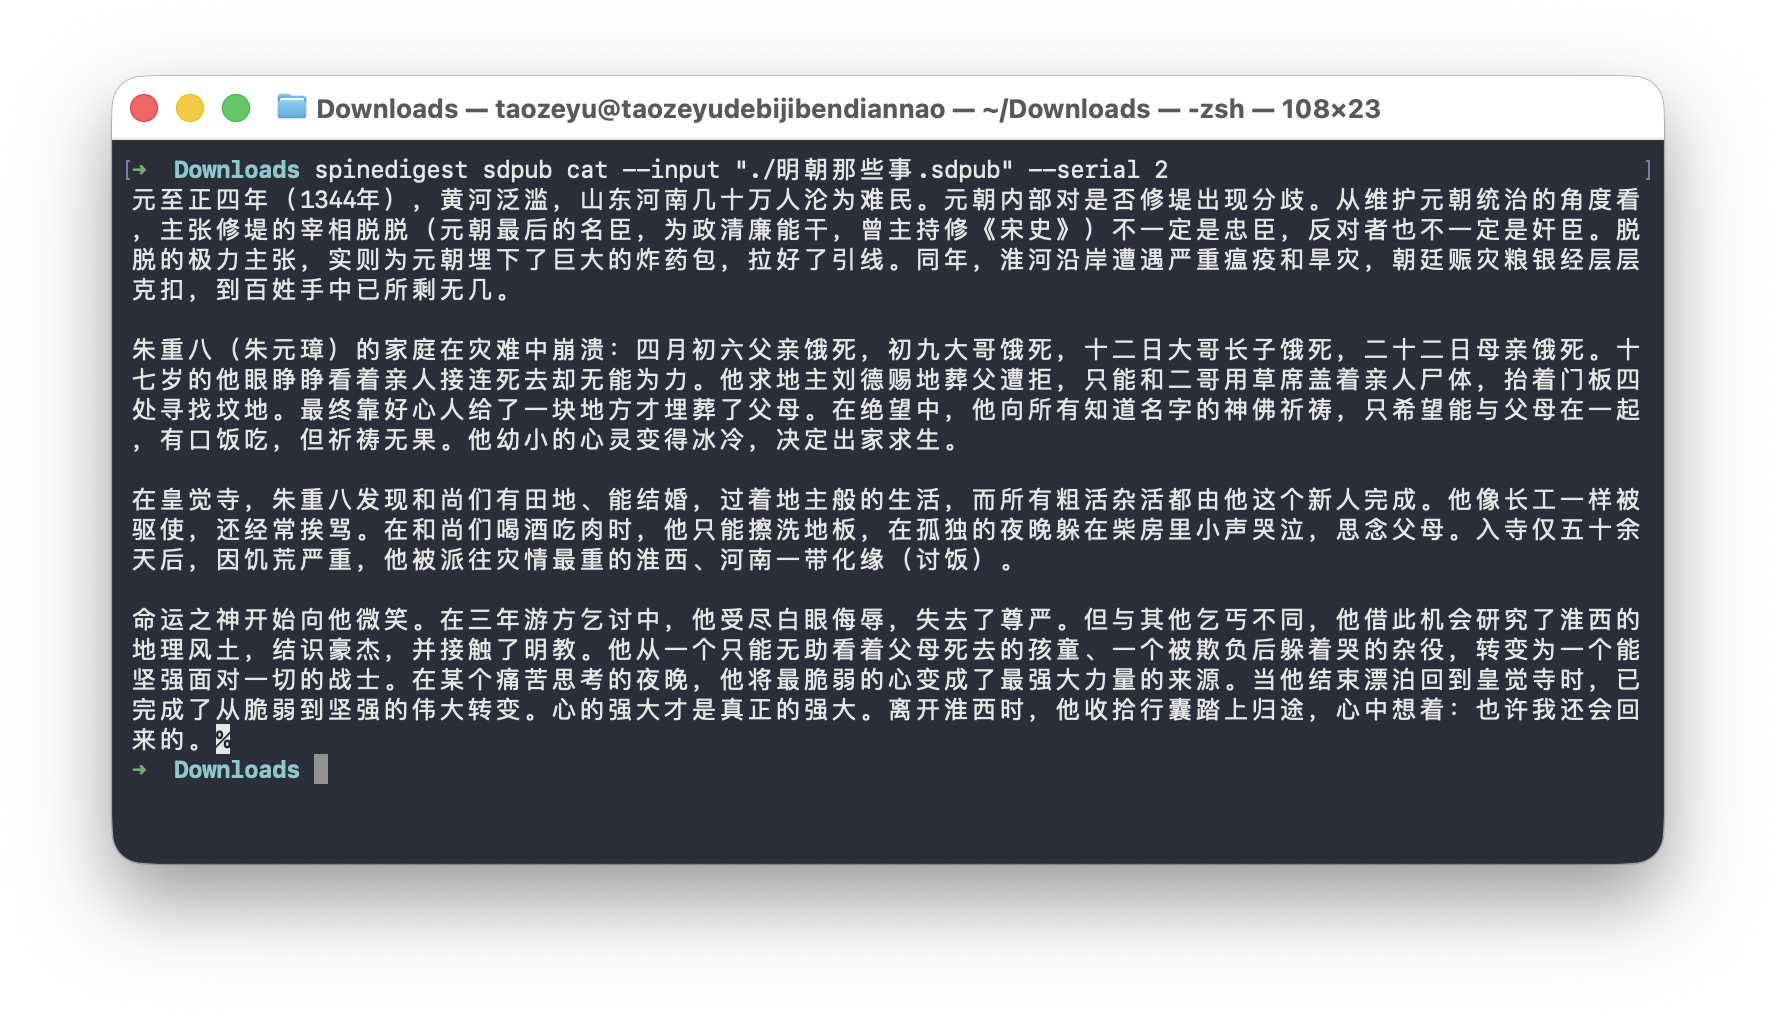
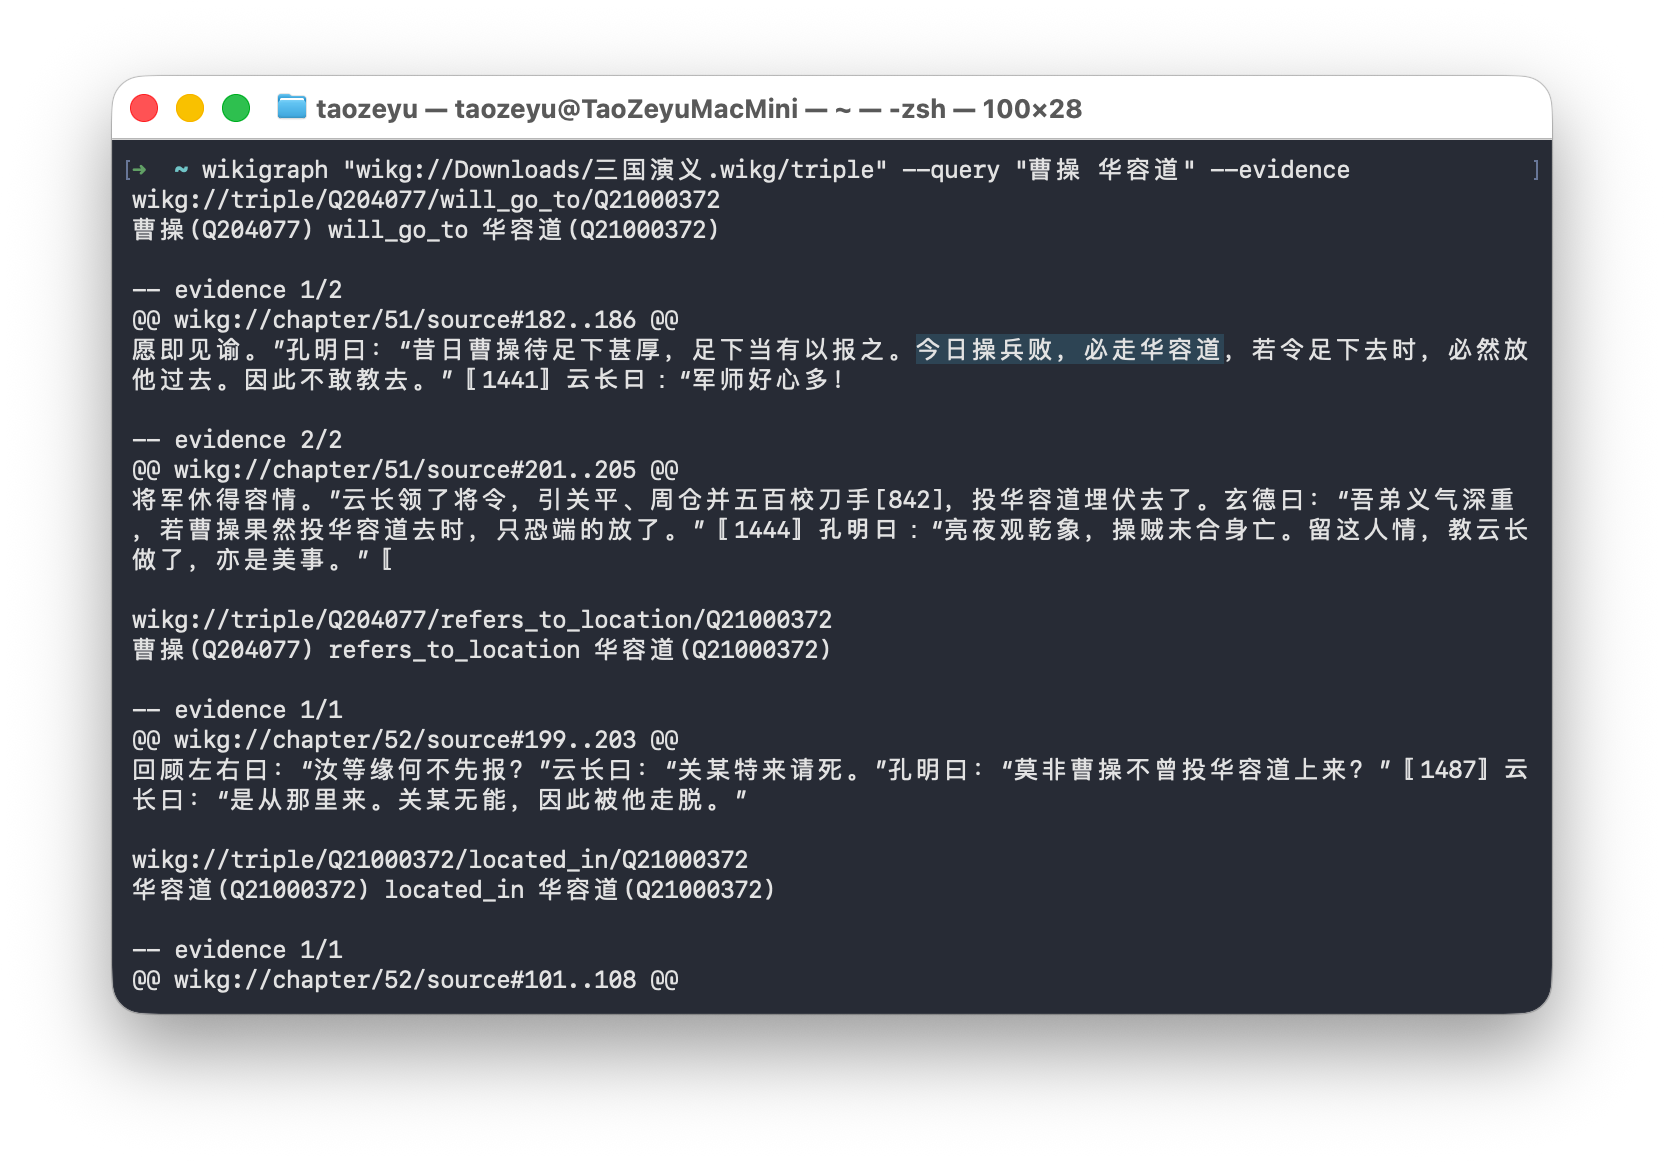
docs: add title images

Changed region(s): [[0.0625, 0.0613, 0.9375, 0.8883]]

diff --git a/README.md b/README.md
@@ -1,3 +1,5 @@
+![](./docs/images/terminal-en.png)
+
 <div align="center">
   <h1>Wiki Graph</h1>
   <p>English | <a href="./README_zh-CN.md">中文</a></p>

diff --git a/README_zh-CN.md b/README_zh-CN.md
@@ -1,3 +1,5 @@
+![](./docs/images/terminal-cn.png)
+
 <div align="center">
   <h1>Wiki Graph</h1>
   <p><a href="./README.md">English</a> | 中文</p>